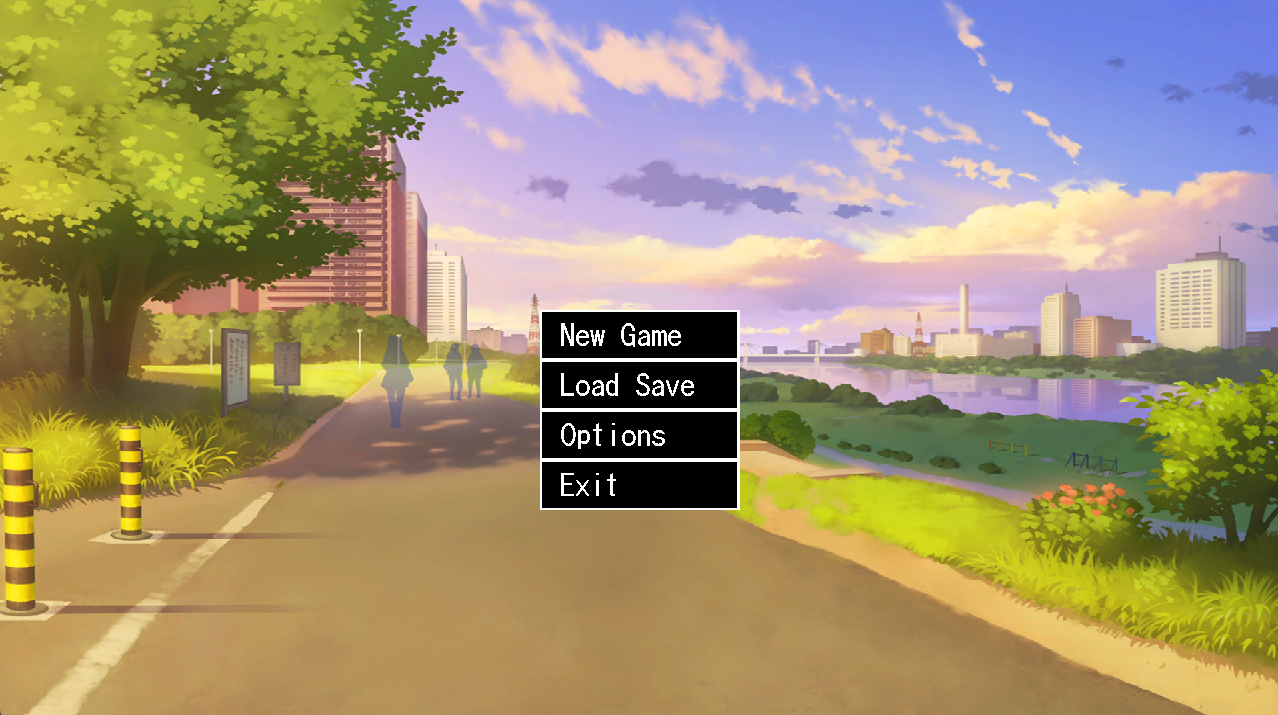
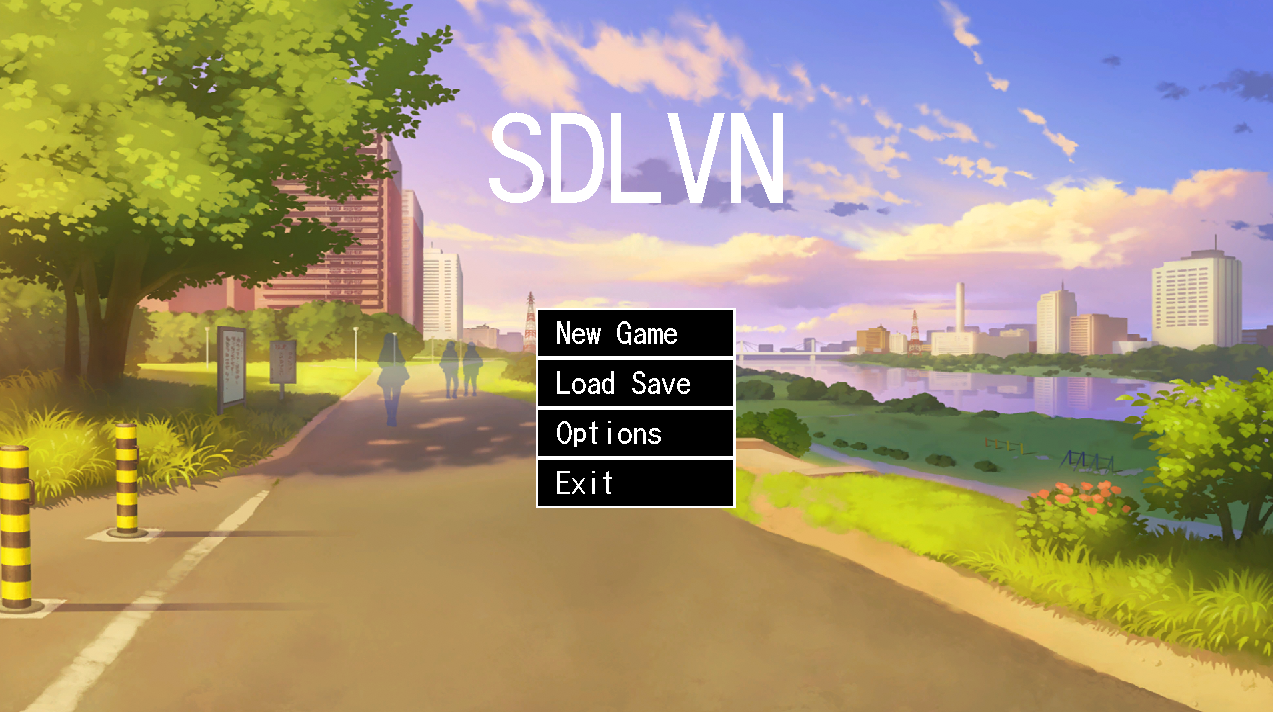
figured out text bug, was the was i created text. Now text can be its own object, next is to make it so ui manager can render both in the one vector?

diff --git a/src/Text.h b/src/Text.h
@@ -6,7 +6,7 @@
 
 #ifndef TEXT_H
 #define TEXT_H
-class Text : public Texture {
+class Text {
 public:
 	enum TextType
 	{
@@ -14,15 +14,20 @@ public:
 		DIALOGUE
 	};
 
+	Text();
 	Text(std::string text, int fontSize, TextType textType, SDL_Renderer* renderer);
+	~Text();
 
 	void SetCurTextLength(int length) { curTextLen = length; }
 	int GetCurTextLength() { return curTextLen; }	// what the text length CURRENTLY IS
-	int GetTextLength() { return text.length();  }  // MAX text legnth
+	size_t GetTextLength() { return text.length();  }  // MAX text legnth
 	std::string GetText() { return text; }
 
-	void SetTextAlpha(Uint8 a);
+	void SetTextAlpha(int a);
 	void SetTextColour(SDL_Color color) { textColor = color; }
+
+	int GetTextWidth() { return textTexture->getWidth(); }
+	int GetTextHeight() { return textTexture->getHeight(); }
 
 	void Render(int x, int y);
 

diff --git a/src/Menu.cpp b/src/Menu.cpp
@@ -60,6 +60,8 @@ void Menu::EnterState(SDL_Renderer* renderer, GameManager* gameManager) {
 	menuUi->AddButton(contButton);
 	menuUi->AddButton(optButton);
 	menuUi->AddButton(quitButton);
+
+	title = std::make_unique<Text>("SDLVN", 120, Text::UI, menuRenderer);
 }
 
 void Menu::Update(SDL_Event e, double deltaTime) {
@@ -77,6 +79,8 @@ void Menu::Render() {
 		// why is this seperate lol?
 		b->showText();
 	}
+
+	title->Render(SCREEN_WIDTH / 2 - (title->GetTextWidth() / 2), 100);
 
 	SDL_RenderPresent(menuRenderer);
 }

diff --git a/src/Text.cpp b/src/Text.cpp
@@ -1,5 +1,7 @@
 #include "Text.h"
 
+Text::Text() {}
+
 Text::Text(std::string inputText, int fontSize, TextType textType, SDL_Renderer* renderer) {
 	text = inputText;
 
@@ -10,7 +12,11 @@ Text::Text(std::string inputText, int fontSize, TextType textType, SDL_Renderer*
 	textTexture->loadFromRenderedText(text, textColor);
 }
 
-void Text::SetTextAlpha(Uint8 a) {
+Text::~Text() {
+	std::cout << "Unloaded text: " << text << std::endl;
+}
+
+void Text::SetTextAlpha(int a) {
 	textTexture->setAlpha(a);
 }
 

diff --git a/src/Button.h b/src/Button.h
@@ -4,14 +4,14 @@
 #include <iostream>
 #include <functional>
 
-#include "Texture.h"
-#include "Text.h"
-#include "Config.h"
-
 // will mostly stick to interpretor except for main menu and screen ubttons?
 
 #ifndef BUTTON_H
 #define BUTTON_H
+
+#include "Texture.h"
+#include "Text.h"
+#include "Config.h"
 
 class Button : public Texture {
 public:

diff --git a/src/Menu.h b/src/Menu.h
@@ -10,6 +10,7 @@
 
 #include "GameState.h"
 #include "GameManager.h"
+#include "Text.h"
 
 // why does changing this to public work?
 class Menu : public GameState {
@@ -22,6 +23,8 @@ private:
 	// window renderer
 	SDL_Renderer* menuRenderer = NULL;
 	std::unique_ptr<UIManager> menuUi;
+
+	std::unique_ptr<Text> title;
 };
 
 #endif

diff --git a/src/Button.cpp b/src/Button.cpp
@@ -79,7 +79,7 @@ void Button::OnHover() {
 	setAlpha(100);
 
 	if (buttonText == NULL) { return; }
-	buttonText->setAlpha(100);
+	buttonText->SetTextAlpha(100);
 }
 
 void Button::ExitHover() {
